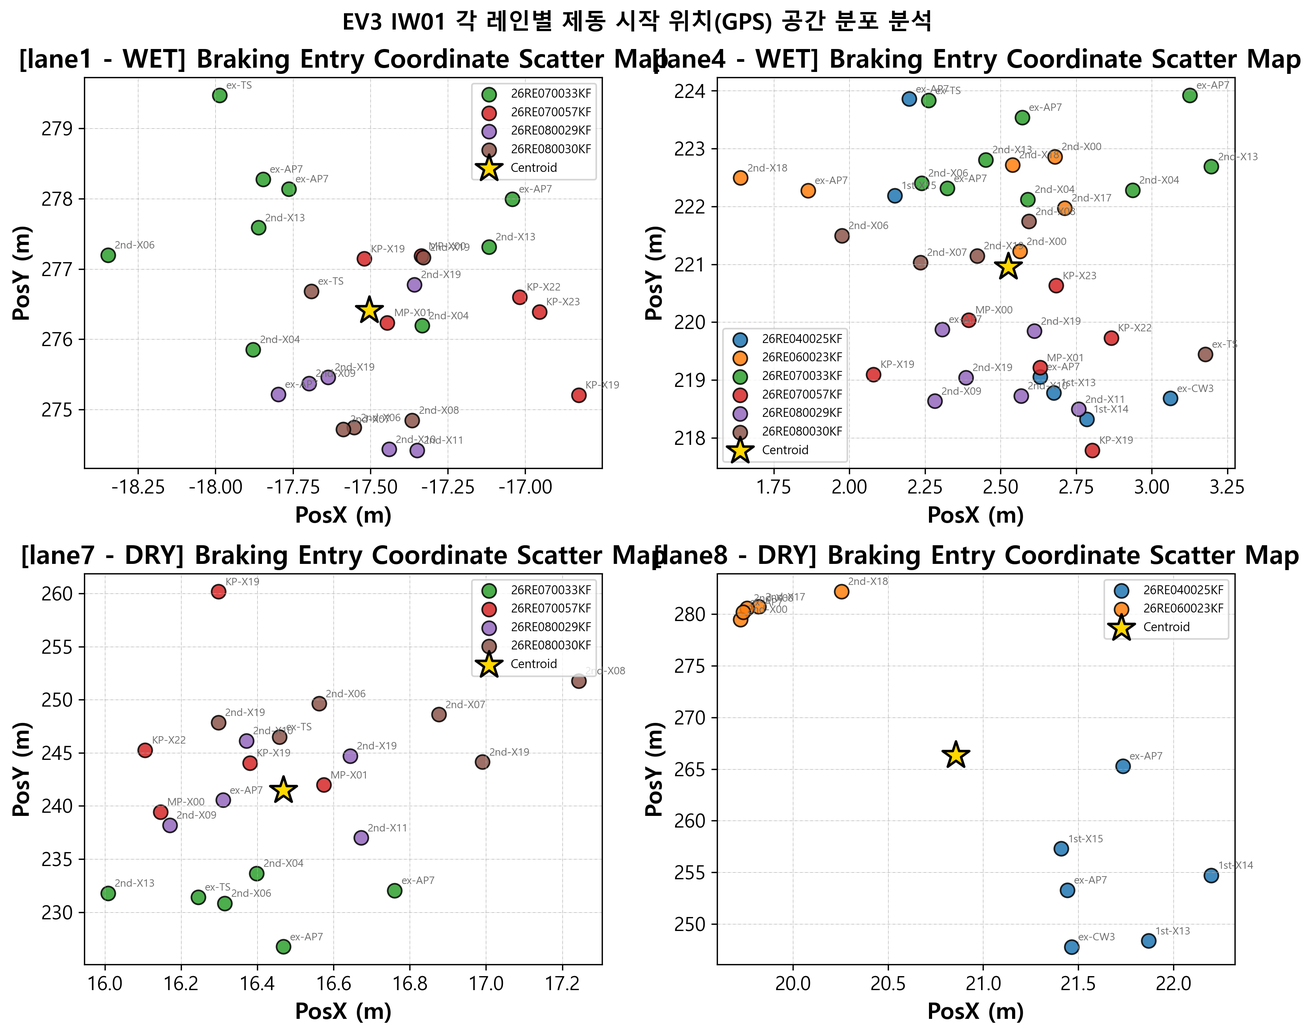
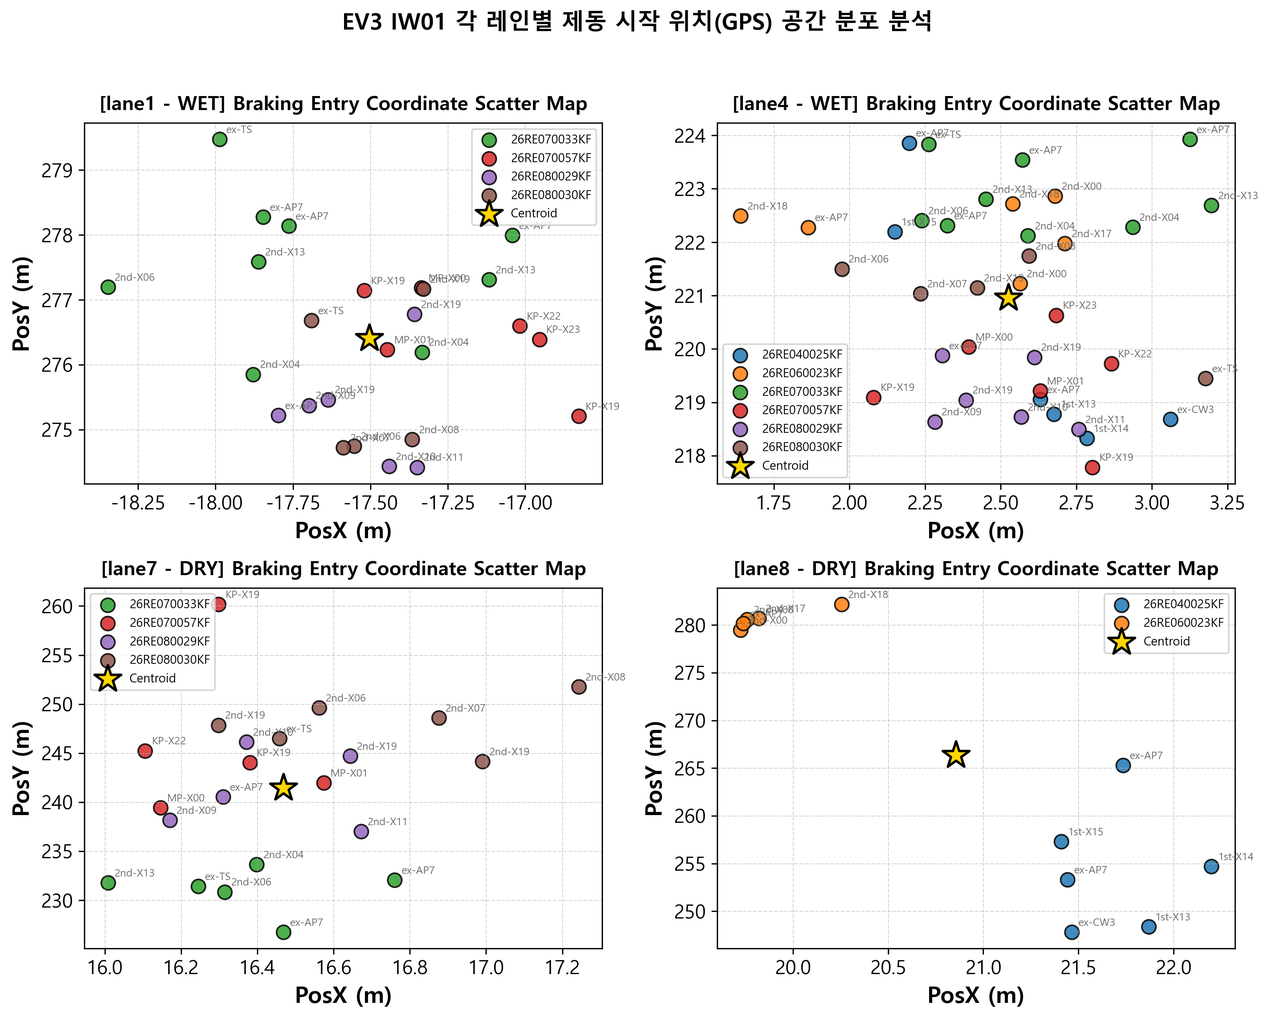
vault backup: 2026-09-15 19:39:02

diff --git a/02_Projects/회사_업무/10_Braking_AutoBuild/EV3_IW01_Integrated_Braking_Analysis_Report.md b/02_Projects/회사_업무/10_Braking_AutoBuild/EV3_IW01_Integrated_Braking_Analysis_Report.md
@@ -23,7 +23,7 @@ project_link: "[[02_Projects/회사_업무/10_Braking_AutoBuild/00_Braking_AutoB
 # 🚗 EV3 IW01 실차 제동 성능 종합 공학 분석 마스터 리포트
 ### Engineering Whitepaper: Surface Separation, Control Baseline, Temperature Sensitivity & Anchor Recalibration
 
-> **보고서 생성일시**: `2026-09-15 19:03` | **분석 프로젝트**: `EV3 IW01 제동 평가 (2026)`  
+> **보고서 생성일시**: `2026-09-15 19:26` | **분석 프로젝트**: `EV3 IW01 제동 평가 (2026)`  
 > **시험 차량**: `기아 EV3 (FF Layout / EV)` | **시험 장소**: `TR 실차 주행시험장`  
 > **평가 노면**: `Wet (Lane 1, Lane 4)` / `Dry (Lane 7, Lane 8)` | **분석 데이터셋**: 총 97회차 평가 데이터
 
@@ -530,12 +530,12 @@ project_link: "[[02_Projects/회사_업무/10_Braking_AutoBuild/00_Braking_AutoB
 ### 6.1 일반 평가 타이어 교차 세션 재현성 검증 (True Repeatability)
 > **⚠ 중요 공학적 해석**: 앵커/브릿지 타이어의 0.00%p는 수학적으로 기준점을 고정했기 때문에 나타나는 값이며, 진정한 실차 재현성은 아래 **일반 평가 타이어**의 산포(약 1.8%p ~ 4.8%p)를 통해 평가해야 합니다.
 
-| No  |  노면   |       스펙 번호       | 타이어 라벨           | 평가회수 | 실측 변동폭 (m) | Method A 편차 (%p) | Method B 편차 (%p) |      재현성 판정       | 온도차 (°C) | 세션별 실측 및 지수 상세                                                                                             |
-| :-: | :---: | :---------------: | :--------------- | :--: | ---------: | ---------------: | ---------------: | :---------------: | -------: | :--------------------------------------------------------------------------------------------------------- |
-|  1  | lane1 |  EXT-2024-00280   | ex / CT / TS     |  2   |       4.99 |             1.89 |             2.98 | 실제 잔여 편차 (2.98%p) |     2.40 | 33KF: 31.74m (A:98.2% ➔ B:98.2%) \| 30KF: 26.75m (A:100.1% ➔ B:101.1%)                                     |
-|  2  | lane4 |  EXT-2024-00280   | ex / CT / TS     |  2   |       2.29 |             1.23 |             4.78 | 실제 잔여 편차 (4.78%p) |     1.40 | 33KF: 36.42m (A:99.2% ➔ B:99.2%) \| 30KF: 34.13m (A:100.4% ➔ B:104.0%)                                     |
-|  3  | lane4 | KPKT1033338X00013 | 1st / IW01 / X13 |  3   |       4.44 |             3.55 |             3.55 |  편차 유지 (3.55%p)   |    13.20 | 25KF: 31.90m (A:103.3% ➔ B:103.3%) \| 33KF: 36.34m (A:99.8% ➔ B:99.8%) \| 33KF: 35.78m (A:99.8% ➔ B:99.8%) |
-|  4  | lane7 |  EXT-2024-00280   | ex / CT / TS     |  2   |       2.86 |             0.43 |             1.77 | 실제 잔여 편차 (1.77%p) |     4.90 | 33KF: 48.26m (A:99.0% ➔ B:99.0%) \| 30KF: 45.41m (A:99.5% ➔ B:100.8%)                                      |
+| No | 노면 | 스펙 번호 | 타이어 라벨 | 평가회수 | 실측 변동폭 (m) | Method A 편차 (%p) | Method B 편차 (%p) | 재현성 판정 | 온도차 (°C) | 세션별 실측 및 지수 상세 |
+| :---: | :---: | :---: | :--- | :---: | ---: | ---: | ---: | :---: | ---: | :--- |
+| 1 | lane1 | EXT-2024-00280 | ex / CT / TS | 2 | 4.99 | 1.89 | 2.98 | 실제 잔여 편차 (2.98%p) | 2.40 | 33KF: 31.74m (A:98.2% ➔ B:98.2%) \| 30KF: 26.75m (A:100.1% ➔ B:101.1%) |
+| 2 | lane4 | EXT-2024-00280 | ex / CT / TS | 2 | 2.29 | 1.23 | 4.78 | 실제 잔여 편차 (4.78%p) | 1.40 | 33KF: 36.42m (A:99.2% ➔ B:99.2%) \| 30KF: 34.13m (A:100.4% ➔ B:104.0%) |
+| 3 | lane4 | KPKT1033338X00013 | 1st / IW01 / X13 | 3 | 4.44 | 3.55 | 3.55 | 편차 유지 (3.55%p) | 13.20 | 25KF: 31.90m (A:103.3% ➔ B:103.3%) \| 33KF: 36.34m (A:99.8% ➔ B:99.8%) \| 33KF: 35.78m (A:99.8% ➔ B:99.8%) |
+| 4 | lane7 | EXT-2024-00280 | ex / CT / TS | 2 | 2.86 | 0.43 | 1.77 | 실제 잔여 편차 (1.77%p) | 4.90 | 33KF: 48.26m (A:99.0% ➔ B:99.0%) \| 30KF: 45.41m (A:99.5% ➔ B:100.8%) |
 
 
 ### 6.2 기준선 정렬 스펙 검증표 (Anchor & Bridge - 수학적 기준점)
@@ -603,18 +603,18 @@ project_link: "[[02_Projects/회사_업무/10_Braking_AutoBuild/00_Braking_AutoB
 
 
 #### ▶ LANE7 동일 스펙 반복 평가 세부 명세 (총 10건)
-| No  |       스펙 번호       | 타이어 명칭/패턴               |    시험 의뢰서    | 차수  |      시험 일시       | 당일 콘트롤           | 콘트롤거리(m) | 실측거리(m) | Method A 산출식                    | 로컬지수(%) | 적용배율 | 배율도출근거                     | Method B 산출식               | 재보정지수(%) | 앵커대비편차(%p) |
-| :-: | :---------------: | :---------------------- | :----------: | :-: | :--------------: | :--------------- | -------: | ------: | :------------------------------ | ------: | ---: | :------------------------- | :------------------------- | -------: | ---------: |
-|  1  |  EXT-2024-00280   | ex / CT / TS            | 26RE070033KF | T1  | 2026-07-23 09:25 | ex / MC / AP7    |    47.80 |   48.26 | 47.80m / 48.26m × 100 = 99.03%  |   99.03 | 1.00 | 100.0% / 100.00% = 1.0000  | 99.03% × 1.0000 = 99.03%   |    99.03 |      -0.97 |
-|  2  |  EXT-2024-00280   | ex / CT / TS            | 26RE080030KF | T1  | 2026-08-24 09:55 | 2nd / IW01 / X19 |    45.16 |   45.41 | 45.16m / 45.41m × 100 = 99.46%  |   99.46 | 1.01 | 101.35% / 100.00% = 1.0135 | 99.46% × 1.0135 = 100.80%  |   100.80 |       0.80 |
-|  3  |  EXT-2026-00147   | [Ctrl] ex / MC / AP7    | 26RE070033KF | C1  | 2026-07-23 08:53 | ex / MC / AP7    |    47.77 |   47.77 | 47.77m / 47.77m × 100 = 100.00% |  100.00 | 1.00 | 100.0% / 100.00% = 1.0000  | 100.00% × 1.0000 = 100.00% |   100.00 |       0.00 |
-|  4  |  EXT-2026-00147   | [Ctrl] ex / MC / AP7    | 26RE070033KF | C2  | 2026-07-23 11:31 | ex / MC / AP7    |    47.93 |   47.93 | 47.93m / 47.93m × 100 = 100.00% |  100.00 | 1.00 | 100.0% / 100.00% = 1.0000  | 100.00% × 1.0000 = 100.00% |   100.00 |       0.00 |
-|  5  |  EXT-2026-00147   | ex / MC / AP7           | 26RE080029KF | T2  | 2026-08-19 09:35 | 2nd / IW01 / X19 |    45.78 |   46.68 | 45.78m / 46.68m × 100 = 98.67%  |   98.67 | 1.01 | 100.0% / 98.67% = 1.0135   | 98.67% × 1.0135 = 100.00%  |   100.00 |       0.00 |
-|  6  | KPKT1033338X00019 | [Ctrl] KP / IW01 / X19  | 26RE070057KF | C1  | 2026-08-13 09:00 | KP / IW01 / X19  |    47.65 |   47.65 | 47.65m / 47.65m × 100 = 100.00% |  100.00 | 1.01 | 101.35% / 100.00% = 1.0135 | 100.00% × 1.0135 = 101.35% |   101.35 |       1.35 |
-|  7  | KPKT1033338X00019 | [Ctrl] KP / IW01 / X19  | 26RE070057KF | C2  | 2026-08-13 11:04 | KP / IW01 / X19  |    46.95 |   46.95 | 46.95m / 46.95m × 100 = 100.00% |  100.00 | 1.01 | 101.35% / 100.00% = 1.0135 | 100.00% × 1.0135 = 101.35% |   101.35 |       1.35 |
-|  8  | KPKT1033338X00019 | [Ctrl] 2nd / IW01 / X19 | 26RE080029KF | C1  | 2026-08-19 09:04 | 2nd / IW01 / X19 |    45.78 |   45.78 | 45.78m / 45.78m × 100 = 100.00% |  100.00 | 1.01 | 100.0% / 98.67% = 1.0135   | 100.00% × 1.0135 = 101.35% |   101.35 |       1.35 |
-|  9  | KPKT1033338X00019 | [Ctrl] 2nd / IW01 / X19 | 26RE080030KF | C1  | 2026-08-24 09:21 | 2nd / IW01 / X19 |    45.01 |   45.01 | 45.01m / 45.01m × 100 = 100.00% |  100.00 | 1.01 | 101.35% / 100.00% = 1.0135 | 100.00% × 1.0135 = 101.35% |   101.35 |       1.35 |
-| 10  | KPKT1033338X00019 | [Ctrl] 2nd / IW01 / X19 | 26RE080030KF | C2  | 2026-08-24 13:33 | 2nd / IW01 / X19 |    45.76 |   45.76 | 45.76m / 45.76m × 100 = 100.00% |  100.00 | 1.01 | 101.35% / 100.00% = 1.0135 | 100.00% × 1.0135 = 101.35% |   101.35 |       1.35 |
+| No | 스펙 번호 | 타이어 명칭/패턴 | 시험 의뢰서 | 차수 | 시험 일시 | 당일 콘트롤 | 콘트롤거리(m) | 실측거리(m) | Method A 산출식 | 로컬지수(%) | 적용배율 | 배율도출근거 | Method B 산출식 | 재보정지수(%) | 앵커대비편차(%p) |
+| :---: | :---: | :--- | :---: | :---: | :---: | :--- | ---: | ---: | :--- | ---: | ---: | :--- | :--- | ---: | ---: |
+| 1 | EXT-2024-00280 | ex / CT / TS | 26RE070033KF | T1 | 2026-07-23 09:25 | ex / MC / AP7 | 47.80 | 48.26 | 47.80m / 48.26m × 100 = 99.03% | 99.03 | 1.00 | 100.0% / 100.00% = 1.0000 | 99.03% × 1.0000 = 99.03% | 99.03 | -0.97 |
+| 2 | EXT-2024-00280 | ex / CT / TS | 26RE080030KF | T1 | 2026-08-24 09:55 | 2nd / IW01 / X19 | 45.16 | 45.41 | 45.16m / 45.41m × 100 = 99.46% | 99.46 | 1.01 | 101.35% / 100.00% = 1.0135 | 99.46% × 1.0135 = 100.80% | 100.80 | 0.80 |
+| 3 | EXT-2026-00147 | [Ctrl] ex / MC / AP7 | 26RE070033KF | C1 | 2026-07-23 08:53 | ex / MC / AP7 | 47.77 | 47.77 | 47.77m / 47.77m × 100 = 100.00% | 100.00 | 1.00 | 100.0% / 100.00% = 1.0000 | 100.00% × 1.0000 = 100.00% | 100.00 | 0.00 |
+| 4 | EXT-2026-00147 | [Ctrl] ex / MC / AP7 | 26RE070033KF | C2 | 2026-07-23 11:31 | ex / MC / AP7 | 47.93 | 47.93 | 47.93m / 47.93m × 100 = 100.00% | 100.00 | 1.00 | 100.0% / 100.00% = 1.0000 | 100.00% × 1.0000 = 100.00% | 100.00 | 0.00 |
+| 5 | EXT-2026-00147 | ex / MC / AP7 | 26RE080029KF | T2 | 2026-08-19 09:35 | 2nd / IW01 / X19 | 45.78 | 46.68 | 45.78m / 46.68m × 100 = 98.67% | 98.67 | 1.01 | 100.0% / 98.67% = 1.0135 | 98.67% × 1.0135 = 100.00% | 100.00 | 0.00 |
+| 6 | KPKT1033338X00019 | [Ctrl] KP / IW01 / X19 | 26RE070057KF | C1 | 2026-08-13 09:00 | KP / IW01 / X19 | 47.65 | 47.65 | 47.65m / 47.65m × 100 = 100.00% | 100.00 | 1.01 | 101.35% / 100.00% = 1.0135 | 100.00% × 1.0135 = 101.35% | 101.35 | 1.35 |
+| 7 | KPKT1033338X00019 | [Ctrl] KP / IW01 / X19 | 26RE070057KF | C2 | 2026-08-13 11:04 | KP / IW01 / X19 | 46.95 | 46.95 | 46.95m / 46.95m × 100 = 100.00% | 100.00 | 1.01 | 101.35% / 100.00% = 1.0135 | 100.00% × 1.0135 = 101.35% | 101.35 | 1.35 |
+| 8 | KPKT1033338X00019 | [Ctrl] 2nd / IW01 / X19 | 26RE080029KF | C1 | 2026-08-19 09:04 | 2nd / IW01 / X19 | 45.78 | 45.78 | 45.78m / 45.78m × 100 = 100.00% | 100.00 | 1.01 | 100.0% / 98.67% = 1.0135 | 100.00% × 1.0135 = 101.35% | 101.35 | 1.35 |
+| 9 | KPKT1033338X00019 | [Ctrl] 2nd / IW01 / X19 | 26RE080030KF | C1 | 2026-08-24 09:21 | 2nd / IW01 / X19 | 45.01 | 45.01 | 45.01m / 45.01m × 100 = 100.00% | 100.00 | 1.01 | 101.35% / 100.00% = 1.0135 | 100.00% × 1.0135 = 101.35% | 101.35 | 1.35 |
+| 10 | KPKT1033338X00019 | [Ctrl] 2nd / IW01 / X19 | 26RE080030KF | C2 | 2026-08-24 13:33 | 2nd / IW01 / X19 | 45.76 | 45.76 | 45.76m / 45.76m × 100 = 100.00% | 100.00 | 1.01 | 101.35% / 100.00% = 1.0135 | 100.00% × 1.0135 = 101.35% | 101.35 | 1.35 |
 
 
 #### ▶ LANE8 동일 스펙 반복 평가 세부 명세 (총 3건)

diff --git a/02_Projects/회사_업무/10_Braking_AutoBuild/00_Braking_AutoBuild_대시보드.md b/02_Projects/회사_업무/10_Braking_AutoBuild/00_Braking_AutoBuild_대시보드.md
@@ -115,12 +115,35 @@ flowchart TD
   7. `24_EV3_IW01_cross_spec_repeatability.py`: [테마 5] 동일 스펙 교차 의뢰서 반복 시험 정밀 대조.
   8. `25_EV3_IW01_spatial_gps_qc.py`: [테마 6] 제동 진입 위치 GPS 공간 품질 QC 및 중심점 편차 진단.
   9. `30_EV3_IW01_export_integrated_excel.py`: 6대 테마 결과를 1개의 통합 엑셀 파일(**`EV3_IW01_Integrated_Braking_Analysis_Report.xlsx`**)에 7개 시트(Executive Summary 표지 + 6개 분석 시트)로 자동 완성.
+  10. `31_EV3_IW01_export_integrated_markdown.py`: 엑셀급 데이터 투명성을 보장하는 24개 이상 마크다운 상세 표 및 21개 차트 내장 통합 마스터 리포트(**`EV3_IW01_Integrated_Braking_Analysis_Report.md`**) 자동 생성 및 옵시디언 볼트 이중 동기화.
+
+### ⑧ 📑 [NEW] 엑셀 수준의 데이터 투명성을 갖춘 통합 마크다운 마스터 리포트 빌더 (`31_EV3_IW01_export_integrated_markdown.py`)
+* **목표:** 엑셀을 열지 않고도 웹/옵시디언 환경에서 전수 데이터를 검증할 수 있도록 엑셀의 모든 산출 근거 데이터(24개 이상의 마크다운 정밀 표)를 100% 이식.
+* **표준 상대 경로 및 옵시디언 이중 지원:** 로컬 환경에서는 `![\1](<2. fig/\1>)` 상대경로로, 옵시디언 볼트에서는 `![[\1]]` 위키링크 형식으로 완벽 호환 변환.
+* **온디맨드 동기화 스위치:** 기본값은 로컬 빌드(`sync_obsidian=False`)로 격리하여 불필요한 I/O를 방지하고, 필요 시 1회성 파라미터(`sync_obsidian=True`)로 볼트(`02_Projects/...` 및 `_attachments/...`)에 원클릭 무결 배포.
+
+### ⑨ 🌡 [NEW] 마른 노면(Lane 7) 콘트롤 타이어 온도 감인성 이상치(Anomaly) 규명
+* **현상 진단:** Lane 7(마른 아스팔트)의 겉보기 음(-)의 추세선은 서로 다른 콘트롤 타이어 투입에 의한 통계적 착시(심슨의 역설)였으며, 동일 콘트롤 타이어 내에서도 10~13°C의 극심한 온도 상승 대비 제동거리 증가량은 +0.17m에 불과하거나 -0.70m 역전 발생.
+* **공학적 원인 규명:**
+  1. **트랙 컨디셔닝(Track Conditioning) 왜곡:** 아침 첫 시험(C1, Green Track) 시 노면 먼지로 인한 슬립 ➔ 주행 반복에 따른 트랙 클리닝 및 고무 피막(Rubber Deposit) 형성으로 오후(C2) 접지력 급상승.
+  2. **아스팔트 점착(Adhesion) 마찰 보상:** 45~53°C 폭염 노면에서 아스팔트 바인더와 트레드 고무의 연화로 인한 점착 마찰 이득이 타이어 강성 저하를 상쇄.
+* **엔지니어링 원칙 확립:** 타 노면(+0.10~+0.15 m/°C) 대비 비정상적으로 극히 작은 이상치(Anomaly)이므로, **인위적인 온도 보정식 적용을 엄격히 배제**하고 반드시 당일 콘트롤 직접 대조 방식으로만 평가하도록 규정.
+
+### ⑩ 🎨 [NEW] 차트 시각화 사실주의(Fact-Only) 표준 및 타이틀 오버랩 완벽 해소
+* **피규어 불변성 및 사실주의 원칙:** 이미지 파일(`.png`) 내부에는 주관적 해석/판단("심슨의 역설", "비정상" 등) 텍스트 박스를 일체 배제하고, 순수 데이터 산점도, 회귀 추세선, 통계 수치($r$, $m$, $p$)만 객관적으로 시각화. (판단 변경 시 이미지 재렌더링 방지 및 유지보수성 극대화)
+* **타이틀 오버랩 제로화:**
+  * 4.3 실측 제동거리 vs 성능지수 산점도 매트릭스(`03_01_Raw_Distance_vs_Index_Analysis_With_Temp.png`)의 전체 타이틀(`fig.suptitle`)과 서브플롯 4개 타이틀 간의 글자 겹침을 `figsize=(13, 11)`, `ax.set_title(fontsize=12, pad=9)`, `subplots_adjust(top=0.89)`로 완벽 해소.
+  * GPS 공간 QC 차트 2종(`06_01`, `06_02`)도 동일하게 12pt 지정 및 여백 최적화 적용.
 
 ---
 
-## 📊 3. 엑셀 연동 자동화 및 최종 마스터 보고서
+## 📊 3. 엑셀 및 마크다운 보고서 자동화 산출물
 
-1. **📑 `EV3_IW01_Integrated_Braking_Analysis_Report.xlsx` (6대 테마 통합 마스터 보고서 - NEW)**
+1. **📑 `EV3_IW01_Integrated_Braking_Analysis_Report.md` (통합 마크다운 마스터 리포트 - NEW)**
+   * **형태:** 단일 완성형 공학 기술 백서 (옵시디언 볼트 및 로컬 프로젝트 동시 배포).
+   * **데이터 투명성:** 엑셀 6대 시트의 모든 세부 산출 근거 표(표 24개 이상) 전수 수록.
+   * **시각화 무결성:** 21개 고해상도 넘버링 차트 완벽 임베딩.
+2. **📑 `EV3_IW01_Integrated_Braking_Analysis_Report.xlsx` (6대 테마 통합 마스터 엑셀 리포트)**
    * **Executive_Summary 시트:** 전 테마 핵심 공학적 소견 종합 및 시트 구성 가이드.
    * **Surface_Ctrl_Baseline 시트:** 노면별 및 로컬 콘트롤 기준 성능 편차 (스펙/몰드/패턴 계층 분석).
    * **Temperature_Sensitivity 시트:** 콘트롤 타이어 노면온도 의존성 및 감인성(m/°C) 1차 회귀 요약.
@@ -128,9 +151,9 @@ flowchart TD
    * **Anchor_Recalibration 시트:** Method A vs B 순위 변동 대조표 및 전 노면 통합 Overall 재보정 랭킹.
    * **Cross_Spec_Repeatability 시트:** 동일 스펙 반복 시험 변동폭(Delta) 및 세부 평가 로그.
    * **Spatial_GPS_QC 시트:** 프로젝트별 제동 진입 위치 공간 편차 및 운전자 주행 일관성 진단.
-2. **📊 `Braking_Performance_Calibration_Validation_Report.xlsx` (종합 검증 보고서)**
-3. **🌡 `Control_Tire_Temperature_Dependency_Report.xlsx` (온도/역전 정밀 진단서)**
-4. **🗺 `Braking_GPS_Spatial_QC_Report.xlsx` (GPS 공간 QC 보고서)**
+3. **📊 `Braking_Performance_Calibration_Validation_Report.xlsx` (종합 검증 보고서)**
+4. **🌡 `Control_Tire_Temperature_Dependency_Report.xlsx` (온도/역전 정밀 진단서)**
+5. **🗺 `Braking_GPS_Spatial_QC_Report.xlsx` (GPS 공간 QC 보고서)**
 
 ---
 
@@ -191,4 +214,7 @@ flowchart TD
 | **2026-09-11** | 🚀 엔진 고도화 | 실시간 노면온도(`BRK Dry/Wet Asp`) 결합, 앵커 재보정(Method B), GPS X/Y 종횡 분할 공간 QC 엔진 주조 |
 | **2026-09-11** | 📊 엑셀 자동화 | 최종 3대 마스터 리포트 자동 생성 파이프라인 완성 (슬로프 차트 & 랭크 쉬프트 컬러 마킹) |
 | **2026-09-14** | 🏛 볼트 위키 통합 | 날짜별 임시 작업 명세(`10_Braking_AutoBuild_작업_정리.md`)를 마스터 대시보드로 100% 통합 흡수 및 낱개 파일 정리 (Zero-Clutter Law) |
-| **2026-09-15** | 📑 마스터 리포트 | 6대 테마 전수 세부 산출 근거 표(엑셀급 투명성) 및 21개 차트가 포함된 통합 마크다운 마스터 리포트 배포 및 옵시디언 볼트 이중 동기화 완료 |
+| **2026-09-15** | 📑 마스터 리포트 | 6대 테마 전수 세부 산출 근거 표(24개+ 마크다운 표) 및 21개 차트가 포함된 통합 마크다운 마스터 리포트(`31번` 모듈) 구축 및 로컬/볼트 이중 배포 |
+| **2026-09-15** | 🖼 볼트 연동 최적화 | 옵시디언 볼트(`02_Projects/...` 및 `_attachments/...`) 자동 동기화 체계 구현 및 온디맨드 스위치(`sync_obsidian`) 제어화 |
+| **2026-09-15** | 🌡 물리 이상치 규명 | 마른 노면(Lane 7) 콘트롤 타이어 온도 저반응/역전 원인(트랙 컨디셔닝, 아스팔트 점착 보상) 규명 및 인위적 온도 보정 배제 원칙 확립 |
+| **2026-09-15** | 🎨 시각화 품질 개선 | 피규어 내 주관적 의견 텍스트 전면 배제(순수 팩트 위주) 및 4.3 산점도 매트릭스(`03_01`)·공간 QC 차트 상단 타이틀 오버랩 완벽 해소 |

diff --git a/04_Resources/21_제동/40_제동_성능_자동분석_및_기상_공간QC_보정_시스템.md b/04_Resources/21_제동/40_제동_성능_자동분석_및_기상_공간QC_보정_시스템.md
@@ -63,9 +63,15 @@ aliases:
 >    * **아스팔트 점착(Adhesion) 마찰 보상**: 45~53°C 폭염 노면에서 아스팔트 바인더와 타이어 표면이 연화되며 발생하는 점착 마찰력이 타이어 강성 저하를 일시적으로 상쇄한 영향.
 > 4. **[핵심 결론]**: 따라서 **Lane 7 마른 아스팔트는 인위적인 온도 보정식(Temperature Correction)을 적용할 경우 심각한 왜곡을 초래하므로 보정 대상에서 영구 제외**하고, 반드시 당일 동일 세션 내의 콘트롤 타이어 직접 대조 방식으로만 평가해야 합니다.
 
-### ③ 데이터 시각화 표준 수칙 (피규어 작성 원칙)
-* **주관적 판단 텍스트 박스 삽입 금지**: 차트(피규어) 내부에는 "심슨의 역설", "비정상 이상치", "정상 증가" 등 엔지니어의 주관적 의견이나 단정적 해석 텍스트 박스를 일체 삽입하지 않습니다.
-* **객관적 팩트 위주 시각화**: 차트에는 순수 데이터 포인트, 회귀선, 객관적 통계 수치(기울기, 상관계수 $r$)만을 깔끔하게 시각화하며, 모든 해석 및 공학적 소견은 본문 텍스트(마크다운, 엑셀 텍스트, 위키)에 서술하여, 해석 변경 시 피규어를 재렌더링해야 하는 오류를 원천 차단합니다.
+### ③ 데이터 시각화 표준 수칙 (피규어 작성 및 레이아웃 원칙)
+* **주관적 판단 텍스트 박스 삽입 금지 (Fact-Only Visualization)**:
+  * 차트(피규어) 내부에는 "심슨의 역설", "비정상 이상치", "정상 증가" 등 엔지니어의 주관적 의견이나 단정적 해석 텍스트 박스를 일체 삽입하지 않습니다.
+  * 차트에는 순수 데이터 포인트, 회귀선, 객관적 통계 수치(기울기, 상관계수 $r$)만을 깔끔하게 시각화하며, 모든 해석 및 공학적 소견은 본문 텍스트(마크다운, 엑셀 텍스트, 위키)에 서술하여, 해석 변경 시 피규어를 재렌더링해야 하는 오류를 원천 차단합니다.
+* **서브플롯 타이틀 오버랩 방지 레이아웃 규격**:
+  * 2x2 서브플롯 등 다중 그리드 차트 생성 시 전체 제목(`fig.suptitle`)과 서브플롯 개별 타이틀(`ax.set_title`)이 겹치는 현상을 원천 방지하기 위해, `format_fig(..., title=None)`으로 호출한 뒤 서브플롯 타이틀은 `ax.set_title(..., fontsize=11~12, pad=8~10)`으로 독립 제어합니다.
+  * 상단 여백은 `fig.subplots_adjust(top=0.89)` 또는 `fig.tight_layout(rect=[0, 0.02, 1, 0.96])`와 `suptitle(y=0.985)`의 조합을 적용하여 상단 40px 이상의 시원한 여백을 확보합니다.
+* **보고서 데이터 투명성 표준 (엑셀급 마크다운 수록)**:
+  * 마크다운 기술 보고서 작성 시 차트만 나열하지 않고, 차트 도출의 근거가 되는 원천 데이터 요약표(평균 제동거리, 표준편차, 성능지수, 역전 쌍 전수 목록, 회귀 통계량 등)를 100% 마크다운 표로 수록하여, 엑셀을 직접 열지 않고도 보고서 자체에서 수치 검증이 가능하도록 합니다.
 
 ---
 

diff --git a/01_Daily/2026-09-15.md b/01_Daily/2026-09-15.md
@@ -42,6 +42,10 @@ condition: 좋음
 - [x] 🚀 **[GitHub 푸시 및 플러그인 구축]** GitHub 원격 저장소(`uunnooo/00_obsidian`) 연동, `Obsidian Git (v2.39+)` 설치/최적화 및 첫 푸시 완료 -> [[40_Obsidian_Git_자동동기화_및_원격백업_가이드]]
 - [x] ❄ **[스노우 노면 엔지니어링]** 일자/세션별 보간 메커니즘, 1-Run 결합, 노면 영향 소거(정규화) 원리 및 대시보드 위키 정리 완료 -> [[스노우_노면_디지털트윈_및_제동성능_보정_위키]]
 - [x] 🚗 **[제동 데이터 파이프라인]** `a_make_SnowAccBrkTest_DF.py` 내 VT_ACCBRK 객체 기반 1-Run(1회 제동) 대표값 집계(`agg_rules`), 의뢰번호(`ReqNo`) 보존, 기상 1초 리샘플링 결합 및 오전/오후(`period`) 세션 분기 파이프라인 구현 완료 (`2. df_result_test_acc_brk.pkl / .csv`)
+- [x] 🏎 **[Braking AutoBuild]** 6대 테마 산출 근거 전수 수록 마크다운 마스터 리포트 빌더(`31번` 모듈) 구축 및 옵시디언 볼트 이중 동기화 체계 완비 -> [[EV3_IW01_Integrated_Braking_Analysis_Report]]
+- [x] 🌡 **[공학적 이상치 규명]** 마른 아스팔트(Lane 7) 콘트롤 타이어 온도 저반응 원인(외생 노이즈/트랙 컨디셔닝) 분석 및 인위적 온도 보정 배제 원칙 확립
+- [x] 🎨 **[시각화 무결성]** 피규어 내 주관적 의견 텍스트 배제 및 4.3 산점도 매트릭스(`03_01`)·공간 QC 차트 상단 타이틀 오버랩 완벽 해소
+- [x] 📚 **[위키 지식 자산화]** 마스터 대시보드 및 제동 보정 시스템 영구 위키 최신 갱신 완료 -> [[00_Braking_AutoBuild_대시보드]], [[40_제동_성능_자동분석_및_기상_공간QC_보정_시스템]]
 
 ---
 

diff --git a/00_Inbox/Obsidian_Braking_Wiki.md b/00_Inbox/Obsidian_Braking_Wiki.md
@@ -1,10 +1,10 @@
 # 🗂 제동 성능 자동 분석 및 보정 시스템 위키 (Braking AutoBuild Wiki)
-> [!info] **문서 정보**
-> * **최종 수정일:** 2026-09-15 (화요일)
-> * **태그:** #Braking #VehicleDynamics #DataEngineering #ExcelAutomation #EV3_IW01
-> * **관련 가이드:** [[WORK_STATUS]] | [[EV3_IW01_Integrated_Braking_Analysis_Report.xlsx]]
-
-이 위키는 기아 **`EV3_IW01`** 프로젝트 제동 평가 데이터의 기상 보정, 공통 앵커 캘리브레이션, 그리고 제동 시작점 GPS QC 정합성의 전체 공학적 거동 원리와 시스템 사상을 정립한 마스터 위키 노트입니다.
+> [!NOTE] 🏛 영구 지식 위키 승격 완료 안내
+> 본 초안 위키 노트는 옵시디언 표준 룰북(AGENTS.md)에 따라 **정식 영구 지식 위키**인 [[40_제동_성능_자동분석_및_기상_공간QC_보정_시스템]]으로 100% 승격 및 통합 반영되었습니다.
+> 
+> * **정식 지식 위키:** [[40_제동_성능_자동분석_및_기상_공간QC_보정_시스템]]
+> * **프로젝트 마스터 대시보드:** [[00_Braking_AutoBuild_대시보드]]
+> * **마스터 기술 보고서:** [[EV3_IW01_Integrated_Braking_Analysis_Report]]
 
 ---
 
